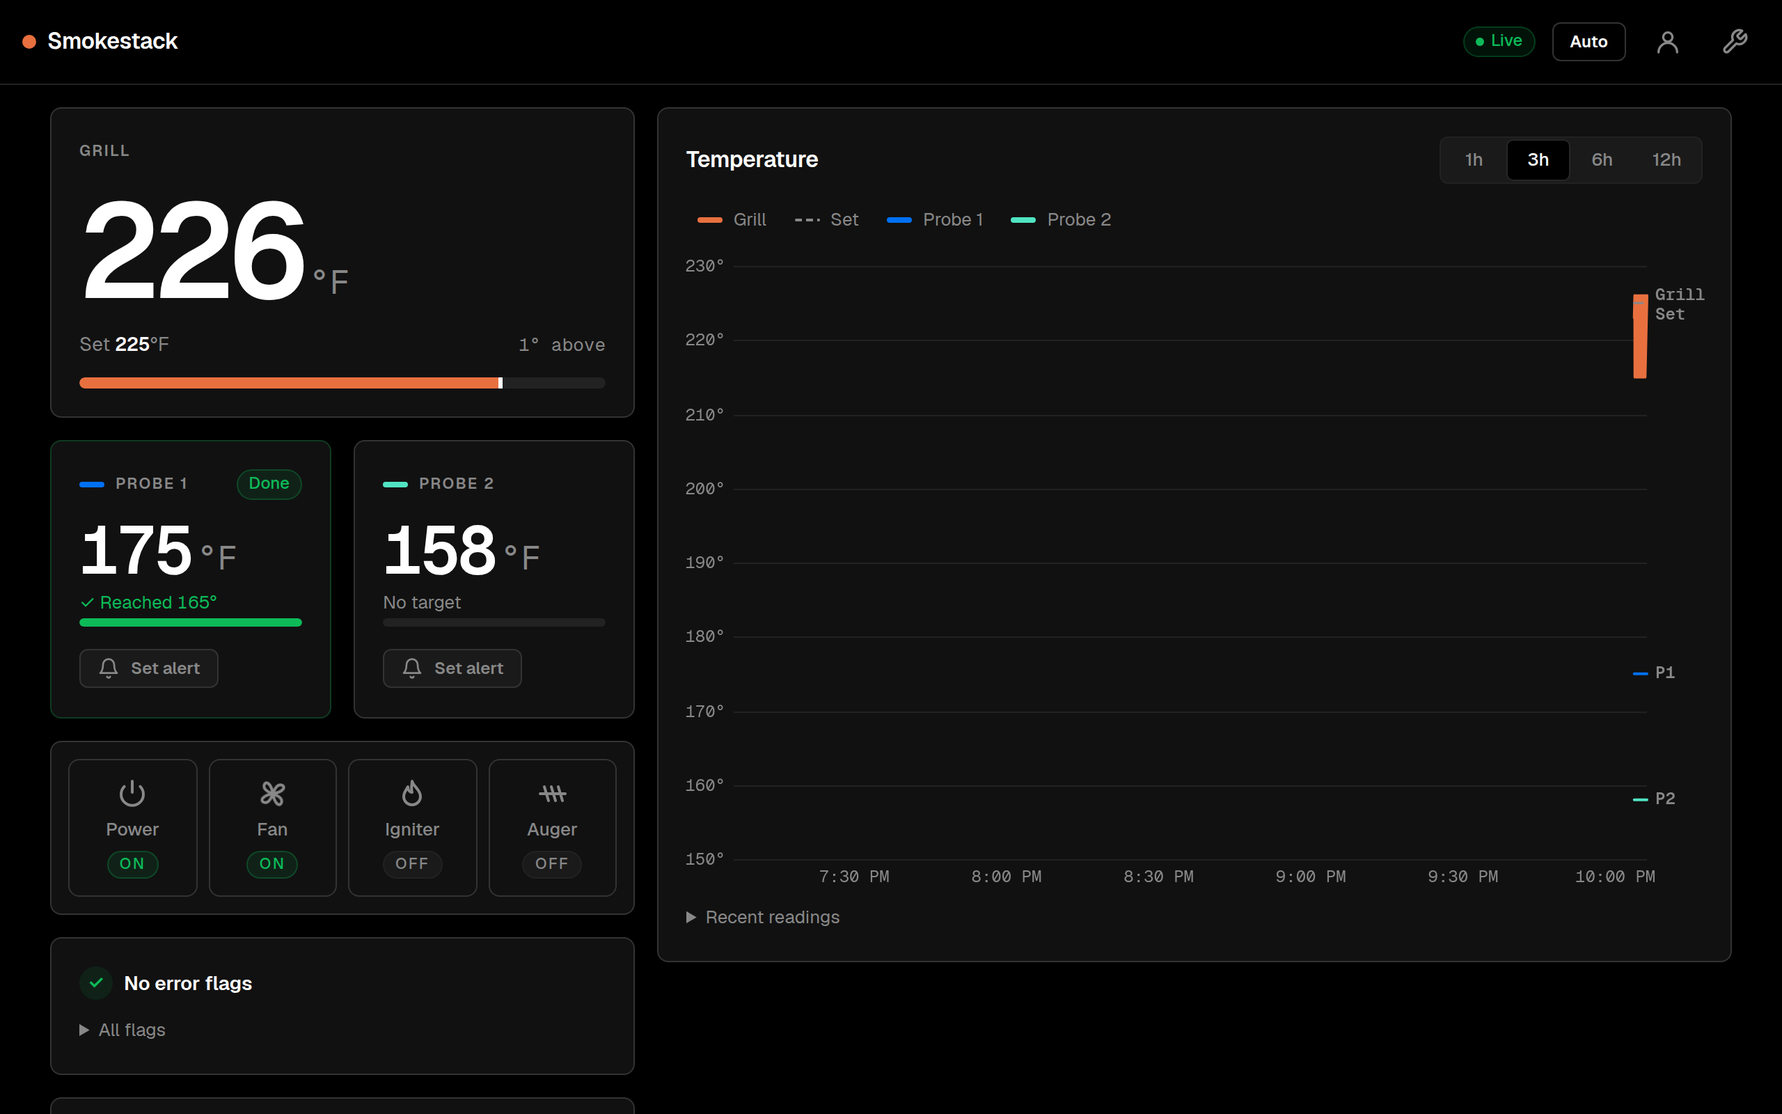
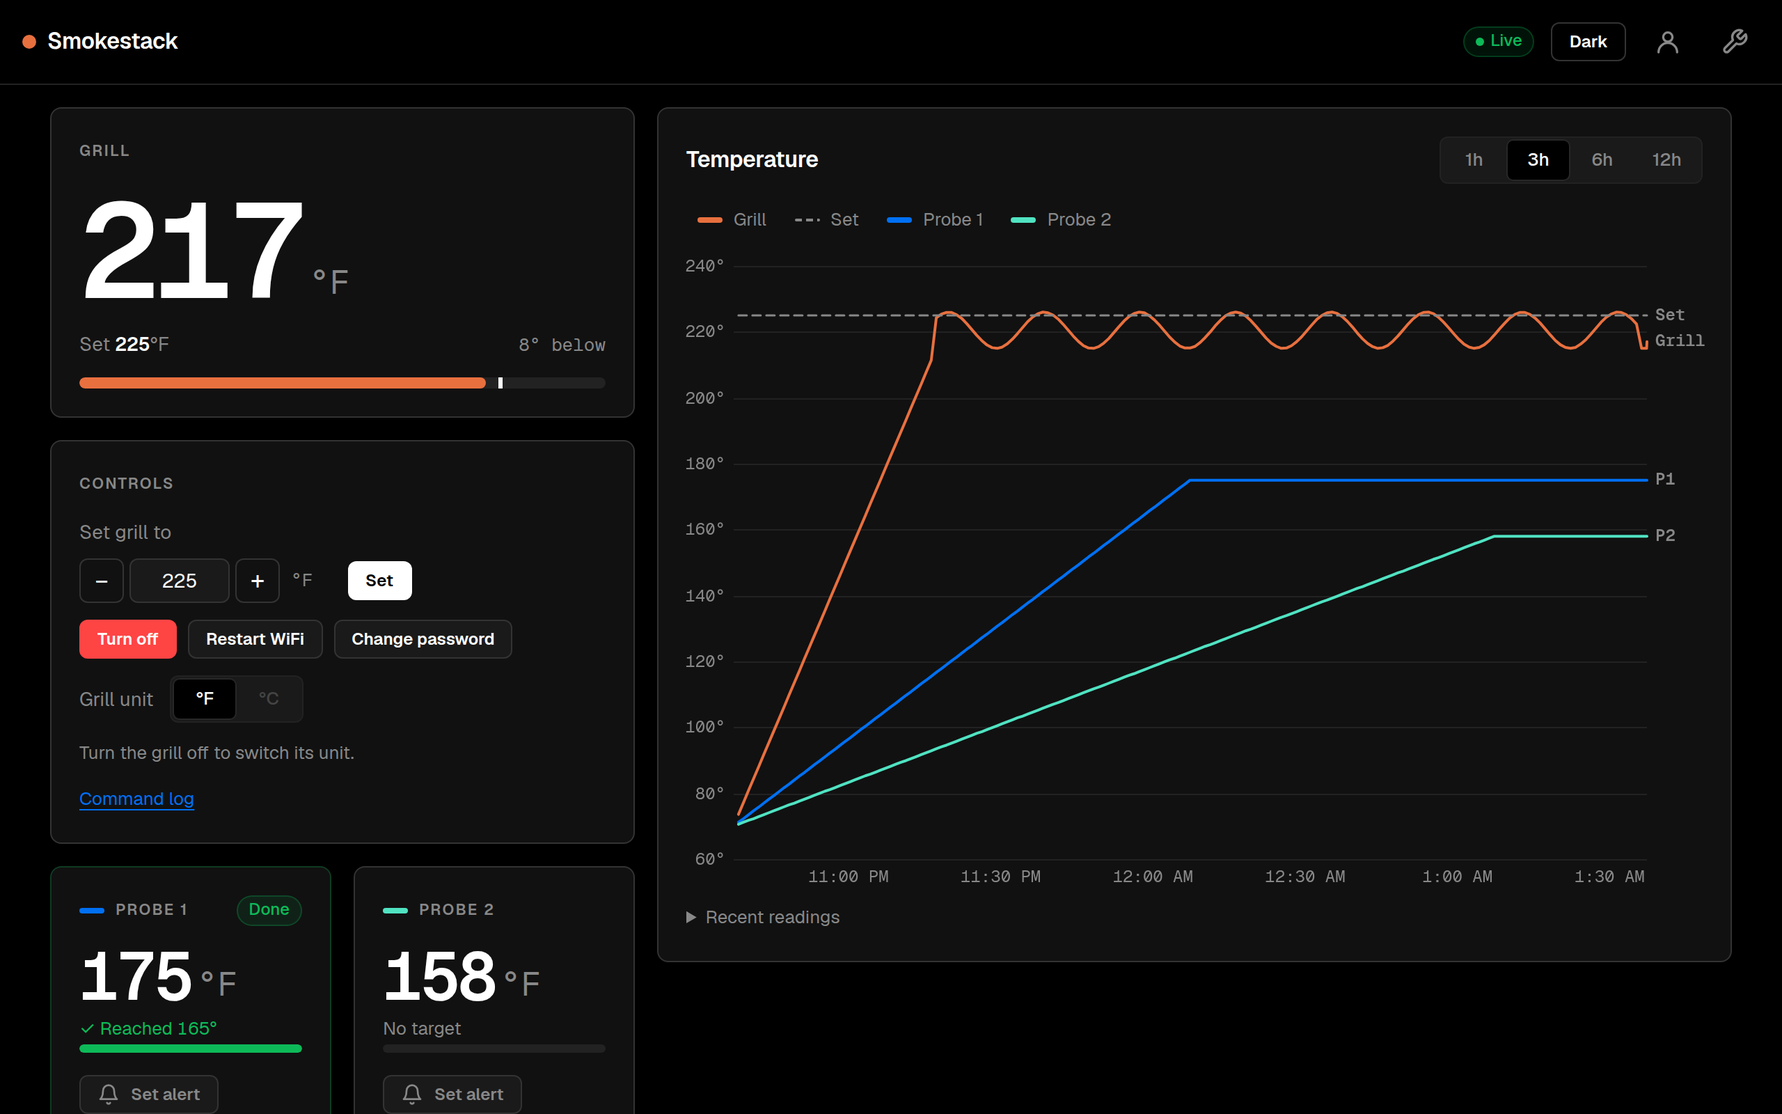
feat: keep the grill controls in reach
Move the Controls card under the grill readout, so set temperature and turn off are visible without scrolling on a laptop and a phone. On desktop the card stays in view while the readings scroll. The card still disappears when control is off, and the command log and all confirmations are unchanged. Bump the service worker shell cache and refresh the dashboard screenshots.

diff --git a/src/smokestack/static/index.html b/src/smokestack/static/index.html
@@ -171,157 +171,159 @@
   </div>
 
   <main id="main" class="is-waiting">
-    <section class="card hero" aria-labelledby="grill-label">
-      <div class="card-head">
-        <span id="grill-label" class="label">Grill</span>
-        <span id="power-tag" class="status-badge status-badge--queued" hidden>Off</span>
-      </div>
-      <div class="big reading">
-        <span id="grill-temp">--</span><span class="unit" data-unit>°F</span>
-      </div>
-      <div class="set-row">
-        <span>Set <strong id="set-temp">--</strong><span data-unit>°F</span></span>
-        <span id="delta" class="delta"></span>
-      </div>
-      <div class="metric-bar-track" aria-hidden="true">
-        <div id="grill-fill" class="metric-bar-fill metric-bar-fill--grill"></div>
-        <div id="set-mark" class="metric-mark"></div>
-      </div>
-    </section>
-
-    <section class="probes" aria-label="Probes">
-      <article class="card probe" id="probe-1">
+    <div class="dashboard-side">
+      <section class="card hero" aria-labelledby="grill-label">
         <div class="card-head">
-          <span class="label with-key"><span class="key key-p1" aria-hidden="true"></span>Probe 1</span>
-          <span class="status-badge status-badge--ready probe-done" hidden>Done</span>
+          <span id="grill-label" class="label">Grill</span>
+          <span id="power-tag" class="status-badge status-badge--queued" hidden>Off</span>
         </div>
-        <div class="mid reading"><span data-temp>--</span><span class="unit" data-unit>°F</span></div>
-        <div class="probe-target" data-target>Not connected</div>
-        <div class="metric-bar-track" aria-hidden="true"><div class="metric-bar-fill metric-bar-fill--probe-1" data-fill></div></div>
-        <div class="probe-alert" data-probe="1">
-          <button type="button" class="btn btn-secondary btn-sm alert-btn" data-alert-open aria-expanded="false" aria-controls="alert-form-1">
-            <svg viewBox="0 0 24 24" aria-hidden="true"><path d="M6 8a6 6 0 0 1 12 0c0 7 3 9 3 9H3s3-2 3-9M10.3 21a1.94 1.94 0 0 0 3.4 0"/></svg>
-            <span data-alert-label>Set alert</span>
-          </button>
-          <form id="alert-form-1" class="alert-form" data-alert-form novalidate hidden>
-            <label for="alert-input-1">Alert when probe 1 reaches</label>
-            <div class="with-unit">
-              <input id="alert-input-1" class="input" type="number" inputmode="decimal" step="any" min="1" max="1000" autocomplete="off">
-              <span class="unit-label" data-alert-unit>°F</span>
+        <div class="big reading">
+          <span id="grill-temp">--</span><span class="unit" data-unit>°F</span>
+        </div>
+        <div class="set-row">
+          <span>Set <strong id="set-temp">--</strong><span data-unit>°F</span></span>
+          <span id="delta" class="delta"></span>
+        </div>
+        <div class="metric-bar-track" aria-hidden="true">
+          <div id="grill-fill" class="metric-bar-fill metric-bar-fill--grill"></div>
+          <div id="set-mark" class="metric-mark"></div>
+        </div>
+      </section>
+
+      <section class="card controls" id="controls" aria-labelledby="controls-title" hidden>
+        <div class="card-head"><span id="controls-title" class="label">Controls</span></div>
+        <p id="controls-reason" class="controls-note" hidden></p>
+        <div id="controls-actions" class="controls-actions">
+          <form id="control-temp-form" class="control-temp" novalidate>
+            <label for="control-temp">Set grill to</label>
+            <div class="control-temp-row">
+              <div class="stepper" role="group" aria-label="Set grill to">
+                <button type="button" class="stepper-btn" data-dir="-1" aria-label="Lower the set temperature" data-control data-temp-control>−</button>
+                <input id="control-temp" class="input" type="number" inputmode="numeric" step="any" min="1" max="1000" autocomplete="off" data-control data-temp-control>
+                <button type="button" class="stepper-btn" data-dir="1" aria-label="Raise the set temperature" data-control data-temp-control>+</button>
+              </div>
+              <span class="unit-label" data-unit>°F</span>
+              <button type="submit" class="btn btn-primary btn-sm" data-control data-temp-control>Set</button>
             </div>
-            <div class="alert-actions">
-              <button type="submit" class="btn btn-primary btn-sm" data-alert-save>Set</button>
-              <button type="button" class="link-btn" data-alert-clear>Clear</button>
-              <button type="button" class="link-btn" data-alert-cancel>Cancel</button>
-            </div>
-            <p class="alert-note" data-alert-note role="status" aria-live="polite"></p>
           </form>
-        </div>
-      </article>
-      <article class="card probe" id="probe-2">
-        <div class="card-head">
-          <span class="label with-key"><span class="key key-p2" aria-hidden="true"></span>Probe 2</span>
-          <span class="status-badge status-badge--ready probe-done" hidden>Done</span>
-        </div>
-        <div class="mid reading"><span data-temp>--</span><span class="unit" data-unit>°F</span></div>
-        <div class="probe-target" data-target>Not connected</div>
-        <div class="metric-bar-track" aria-hidden="true"><div class="metric-bar-fill metric-bar-fill--probe-2" data-fill></div></div>
-        <div class="probe-alert" data-probe="2">
-          <button type="button" class="btn btn-secondary btn-sm alert-btn" data-alert-open aria-expanded="false" aria-controls="alert-form-2">
-            <svg viewBox="0 0 24 24" aria-hidden="true"><path d="M6 8a6 6 0 0 1 12 0c0 7 3 9 3 9H3s3-2 3-9M10.3 21a1.94 1.94 0 0 0 3.4 0"/></svg>
-            <span data-alert-label>Set alert</span>
-          </button>
-          <form id="alert-form-2" class="alert-form" data-alert-form novalidate hidden>
-            <label for="alert-input-2">Alert when probe 2 reaches</label>
-            <div class="with-unit">
-              <input id="alert-input-2" class="input" type="number" inputmode="decimal" step="any" min="1" max="1000" autocomplete="off">
-              <span class="unit-label" data-alert-unit>°F</span>
-            </div>
-            <div class="alert-actions">
-              <button type="submit" class="btn btn-primary btn-sm" data-alert-save>Set</button>
-              <button type="button" class="link-btn" data-alert-clear>Clear</button>
-              <button type="button" class="link-btn" data-alert-cancel>Cancel</button>
-            </div>
-            <p class="alert-note" data-alert-note role="status" aria-live="polite"></p>
-          </form>
-        </div>
-      </article>
-    </section>
-
-    <section class="card indicators" aria-label="Components">
-      <div class="ind" id="ind-power" data-on="unknown">
-        <svg viewBox="0 0 24 24" aria-hidden="true"><path d="M12 3v8M6.3 6.8a8 8 0 1 0 11.4 0"/></svg>
-        <span class="ind-name">Power</span><span class="ind-state">--</span>
-      </div>
-      <div class="ind" id="ind-fan" data-on="unknown">
-        <svg viewBox="0 0 24 24" aria-hidden="true" class="spin"><path d="M12 12c0-4 1-8 4-8s3 4-4 8Zm0 0c4 0 8 1 8 4s-4 3-8-4Zm0 0c0 4-1 8-4 8s-3-4 4-8Zm0 0c-4 0-8-1-8-4s4-3 8 4Z"/></svg>
-        <span class="ind-name">Fan</span><span class="ind-state">--</span>
-      </div>
-      <div class="ind" id="ind-igniter" data-on="unknown">
-        <svg viewBox="0 0 24 24" aria-hidden="true"><path d="M12 3c1 4 6 6 6 11a6 6 0 0 1-12 0c0-3 2-5 3-7 0 2 1 4 3 4-1-3 0-6 0-8Z"/></svg>
-        <span class="ind-name">Igniter</span><span class="ind-state">--</span>
-      </div>
-      <div class="ind" id="ind-auger" data-on="unknown">
-        <svg viewBox="0 0 24 24" aria-hidden="true"><path d="M3 12h18M6 7l3 10M11 7l3 10M16 7l3 10"/></svg>
-        <span class="ind-name">Auger</span><span class="ind-state">--</span>
-      </div>
-    </section>
-
-    <section class="card errors" id="errors" data-state="unknown" aria-live="polite">
-      <div class="errors-summary">
-        <span class="errors-icon" aria-hidden="true"></span>
-        <strong id="errors-title">Error flags</strong>
-      </div>
-      <ul id="errors-list" class="errors-list"></ul>
-      <details class="flags">
-        <summary>All flags</summary>
-        <ul id="flags-all" class="flags-all"></ul>
-      </details>
-    </section>
-
-    <section class="card controls" id="controls" aria-labelledby="controls-title" hidden>
-      <div class="card-head"><span id="controls-title" class="label">Controls</span></div>
-      <p id="controls-reason" class="controls-note" hidden></p>
-      <div id="controls-actions" class="controls-actions">
-        <form id="control-temp-form" class="control-temp" novalidate>
-          <label for="control-temp">Set grill to</label>
-          <div class="control-temp-row">
-            <div class="stepper" role="group" aria-label="Set grill to">
-              <button type="button" class="stepper-btn" data-dir="-1" aria-label="Lower the set temperature" data-control data-temp-control>−</button>
-              <input id="control-temp" class="input" type="number" inputmode="numeric" step="any" min="1" max="1000" autocomplete="off" data-control data-temp-control>
-              <button type="button" class="stepper-btn" data-dir="1" aria-label="Raise the set temperature" data-control data-temp-control>+</button>
-            </div>
-            <span class="unit-label" data-unit>°F</span>
-            <button type="submit" class="btn btn-primary btn-sm" data-control data-temp-control>Set</button>
+          <p id="control-temp-hint" class="controls-note" hidden>Turn the grill on at the grill to set its temperature.</p>
+          <div class="control-buttons">
+            <button type="button" class="btn btn-danger btn-sm" id="control-off" data-control>Turn off</button>
+            <button type="button" class="btn btn-secondary btn-sm" id="control-reboot" data-control>Restart WiFi</button>
+            <button type="button" class="btn btn-secondary btn-sm" id="control-password" data-control>Change password</button>
           </div>
-        </form>
-        <p id="control-temp-hint" class="controls-note" hidden>Turn the grill on at the grill to set its temperature.</p>
-        <div class="control-buttons">
-          <button type="button" class="btn btn-danger btn-sm" id="control-off" data-control>Turn off</button>
-          <button type="button" class="btn btn-secondary btn-sm" id="control-reboot" data-control>Restart WiFi</button>
-          <button type="button" class="btn btn-secondary btn-sm" id="control-password" data-control>Change password</button>
+          <div class="control-unit">
+            <span id="control-unit-label">Grill unit</span>
+            <div class="seg" role="group" aria-labelledby="control-unit-label">
+              <button type="button" data-unit-target="F">°F</button>
+              <button type="button" data-unit-target="C">°C</button>
+            </div>
+          </div>
+          <p id="control-unit-hint" class="controls-note" hidden>Turn the grill off to switch its unit.</p>
+          <p id="controls-stale" class="controls-note" hidden>Controls are paused until the grill is reporting again.</p>
+          <p id="controls-pending" class="controls-note" hidden>The grill's password may have changed. The bridge keeps trying both passwords, so it reconnects on its own if the grill kept one of them; to settle it now, save the password in Settings, or reset it at the grill.</p>
         </div>
-        <div class="control-unit">
-          <span id="control-unit-label">Grill unit</span>
-          <div class="seg" role="group" aria-labelledby="control-unit-label">
-            <button type="button" data-unit-target="F">°F</button>
-            <button type="button" data-unit-target="C">°C</button>
+        <div id="control-result" class="control-result" role="status" aria-live="polite" hidden>
+          <span class="spinner" aria-hidden="true"></span>
+          <div>
+            <strong id="control-result-title"></strong>
+            <span id="control-result-detail"></span>
+            <div id="control-result-meta" class="control-meta"></div>
           </div>
         </div>
-        <p id="control-unit-hint" class="controls-note" hidden>Turn the grill off to switch its unit.</p>
-        <p id="controls-stale" class="controls-note" hidden>Controls are paused until the grill is reporting again.</p>
-        <p id="controls-pending" class="controls-note" hidden>The grill's password may have changed. The bridge keeps trying both passwords, so it reconnects on its own if the grill kept one of them; to settle it now, save the password in Settings, or reset it at the grill.</p>
-      </div>
-      <div id="control-result" class="control-result" role="status" aria-live="polite" hidden>
-        <span class="spinner" aria-hidden="true"></span>
-        <div>
-          <strong id="control-result-title"></strong>
-          <span id="control-result-detail"></span>
-          <div id="control-result-meta" class="control-meta"></div>
+        <button id="control-log-open" class="link-btn controls-log-btn" type="button" aria-haspopup="dialog">Command log</button>
+      </section>
+
+      <section class="probes" aria-label="Probes">
+        <article class="card probe" id="probe-1">
+          <div class="card-head">
+            <span class="label with-key"><span class="key key-p1" aria-hidden="true"></span>Probe 1</span>
+            <span class="status-badge status-badge--ready probe-done" hidden>Done</span>
+          </div>
+          <div class="mid reading"><span data-temp>--</span><span class="unit" data-unit>°F</span></div>
+          <div class="probe-target" data-target>Not connected</div>
+          <div class="metric-bar-track" aria-hidden="true"><div class="metric-bar-fill metric-bar-fill--probe-1" data-fill></div></div>
+          <div class="probe-alert" data-probe="1">
+            <button type="button" class="btn btn-secondary btn-sm alert-btn" data-alert-open aria-expanded="false" aria-controls="alert-form-1">
+              <svg viewBox="0 0 24 24" aria-hidden="true"><path d="M6 8a6 6 0 0 1 12 0c0 7 3 9 3 9H3s3-2 3-9M10.3 21a1.94 1.94 0 0 0 3.4 0"/></svg>
+              <span data-alert-label>Set alert</span>
+            </button>
+            <form id="alert-form-1" class="alert-form" data-alert-form novalidate hidden>
+              <label for="alert-input-1">Alert when probe 1 reaches</label>
+              <div class="with-unit">
+                <input id="alert-input-1" class="input" type="number" inputmode="decimal" step="any" min="1" max="1000" autocomplete="off">
+                <span class="unit-label" data-alert-unit>°F</span>
+              </div>
+              <div class="alert-actions">
+                <button type="submit" class="btn btn-primary btn-sm" data-alert-save>Set</button>
+                <button type="button" class="link-btn" data-alert-clear>Clear</button>
+                <button type="button" class="link-btn" data-alert-cancel>Cancel</button>
+              </div>
+              <p class="alert-note" data-alert-note role="status" aria-live="polite"></p>
+            </form>
+          </div>
+        </article>
+        <article class="card probe" id="probe-2">
+          <div class="card-head">
+            <span class="label with-key"><span class="key key-p2" aria-hidden="true"></span>Probe 2</span>
+            <span class="status-badge status-badge--ready probe-done" hidden>Done</span>
+          </div>
+          <div class="mid reading"><span data-temp>--</span><span class="unit" data-unit>°F</span></div>
+          <div class="probe-target" data-target>Not connected</div>
+          <div class="metric-bar-track" aria-hidden="true"><div class="metric-bar-fill metric-bar-fill--probe-2" data-fill></div></div>
+          <div class="probe-alert" data-probe="2">
+            <button type="button" class="btn btn-secondary btn-sm alert-btn" data-alert-open aria-expanded="false" aria-controls="alert-form-2">
+              <svg viewBox="0 0 24 24" aria-hidden="true"><path d="M6 8a6 6 0 0 1 12 0c0 7 3 9 3 9H3s3-2 3-9M10.3 21a1.94 1.94 0 0 0 3.4 0"/></svg>
+              <span data-alert-label>Set alert</span>
+            </button>
+            <form id="alert-form-2" class="alert-form" data-alert-form novalidate hidden>
+              <label for="alert-input-2">Alert when probe 2 reaches</label>
+              <div class="with-unit">
+                <input id="alert-input-2" class="input" type="number" inputmode="decimal" step="any" min="1" max="1000" autocomplete="off">
+                <span class="unit-label" data-alert-unit>°F</span>
+              </div>
+              <div class="alert-actions">
+                <button type="submit" class="btn btn-primary btn-sm" data-alert-save>Set</button>
+                <button type="button" class="link-btn" data-alert-clear>Clear</button>
+                <button type="button" class="link-btn" data-alert-cancel>Cancel</button>
+              </div>
+              <p class="alert-note" data-alert-note role="status" aria-live="polite"></p>
+            </form>
+          </div>
+        </article>
+      </section>
+
+      <section class="card indicators" aria-label="Components">
+        <div class="ind" id="ind-power" data-on="unknown">
+          <svg viewBox="0 0 24 24" aria-hidden="true"><path d="M12 3v8M6.3 6.8a8 8 0 1 0 11.4 0"/></svg>
+          <span class="ind-name">Power</span><span class="ind-state">--</span>
         </div>
-      </div>
-      <button id="control-log-open" class="link-btn controls-log-btn" type="button" aria-haspopup="dialog">Command log</button>
-    </section>
+        <div class="ind" id="ind-fan" data-on="unknown">
+          <svg viewBox="0 0 24 24" aria-hidden="true" class="spin"><path d="M12 12c0-4 1-8 4-8s3 4-4 8Zm0 0c4 0 8 1 8 4s-4 3-8-4Zm0 0c0 4-1 8-4 8s-3-4 4-8Zm0 0c-4 0-8-1-8-4s4-3 8 4Z"/></svg>
+          <span class="ind-name">Fan</span><span class="ind-state">--</span>
+        </div>
+        <div class="ind" id="ind-igniter" data-on="unknown">
+          <svg viewBox="0 0 24 24" aria-hidden="true"><path d="M12 3c1 4 6 6 6 11a6 6 0 0 1-12 0c0-3 2-5 3-7 0 2 1 4 3 4-1-3 0-6 0-8Z"/></svg>
+          <span class="ind-name">Igniter</span><span class="ind-state">--</span>
+        </div>
+        <div class="ind" id="ind-auger" data-on="unknown">
+          <svg viewBox="0 0 24 24" aria-hidden="true"><path d="M3 12h18M6 7l3 10M11 7l3 10M16 7l3 10"/></svg>
+          <span class="ind-name">Auger</span><span class="ind-state">--</span>
+        </div>
+      </section>
+
+      <section class="card errors" id="errors" data-state="unknown" aria-live="polite">
+        <div class="errors-summary">
+          <span class="errors-icon" aria-hidden="true"></span>
+          <strong id="errors-title">Error flags</strong>
+        </div>
+        <ul id="errors-list" class="errors-list"></ul>
+        <details class="flags">
+          <summary>All flags</summary>
+          <ul id="flags-all" class="flags-all"></ul>
+        </details>
+      </section>
+    </div>
 
     <section class="card chart-card" aria-labelledby="chart-title">
       <div class="chart-head">

diff --git a/src/smokestack/static/app.css b/src/smokestack/static/app.css
@@ -265,6 +265,8 @@
   --input-height-md: 44px;
   --z-sticky: 200;
   --z-modal: 400;
+  /* The header: max(12px, safe-area) top, 36px controls, 12px bottom. */
+  --header-height: calc(max(12px, env(safe-area-inset-top)) + 48px);
 }
 
 /* ---- Base -------------------------------------------------------------- */
@@ -969,14 +971,31 @@ main {
   margin: 0 auto;
 }
 
+/* The readings and the controls share the first column, so the controls sit
+   under the grill readout instead of below every other card. */
+.dashboard-side {
+  display: grid;
+  gap: var(--space-4);
+  align-content: start;
+  min-width: 0;
+}
+
 @media (min-width: 960px) {
   main {
     grid-template-columns: minmax(340px, 420px) 1fr;
     align-items: start;
   }
 
-  .chart-card { grid-column: 2; grid-row: 1 / span 4; }
+  .dashboard-side { grid-column: 1; grid-row: 1; }
+  .chart-card { grid-column: 2; grid-row: 1; }
   .foot { grid-column: 1 / -1; }
+
+  /* Stay in reach while the readings below scroll past. */
+  .controls {
+    position: sticky;
+    top: calc(var(--header-height) + var(--space-4));
+    z-index: var(--z-sticky);
+  }
 }
 
 .card {

diff --git a/src/smokestack/static/sw.js b/src/smokestack/static/sw.js
@@ -1,7 +1,7 @@
 /* Service worker: caches the app shell only. API responses are never cached. */
 "use strict";
 
-const CACHE = "smoker-shell-v5";
+const CACHE = "smoker-shell-v6";
 const SHELL = [
   "./",
   "static/app.css",

diff --git a/tests/test_web.py b/tests/test_web.py
@@ -29,6 +29,23 @@ def test_root_serves_dashboard_html(app):
     assert "static/app.js" in response.text
 
 
+def test_dashboard_puts_the_controls_before_the_other_cards(app):
+    # The controls are the actions a cook reaches for, so they sit under the
+    # grill readout instead of after the probes, components and errors.
+    with TestClient(app) as client:
+        html = client.get("/").text
+
+    order = [
+        html.index('class="card hero"'),
+        html.index('id="controls"'),
+        html.index('class="probes"'),
+        html.index('class="card indicators"'),
+        html.index('class="card errors"'),
+        html.index('class="card chart-card"'),
+    ]
+    assert order == sorted(order)
+
+
 def test_static_assets_are_served(app):
     with TestClient(app) as client:
         js = client.get("/static/app.js")
